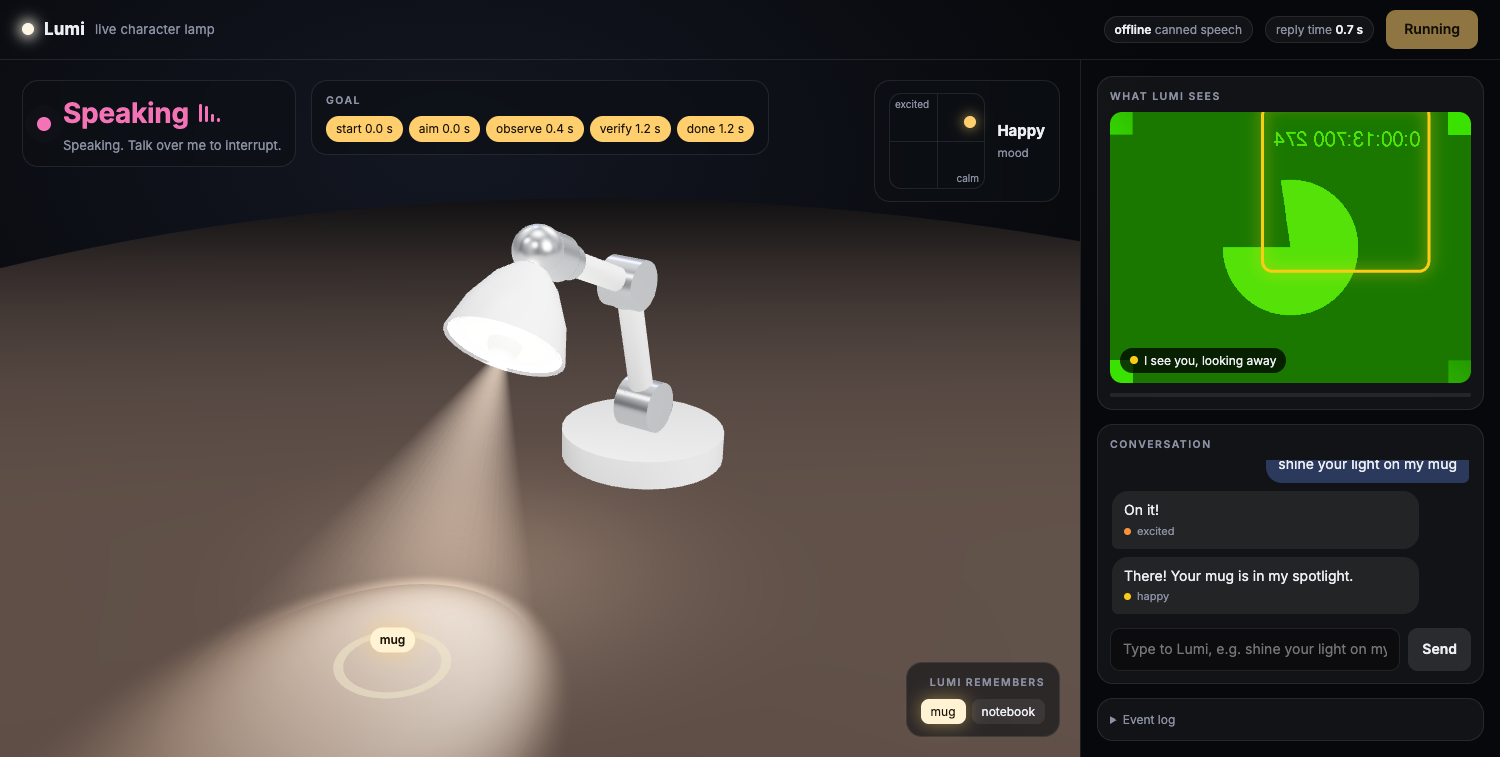
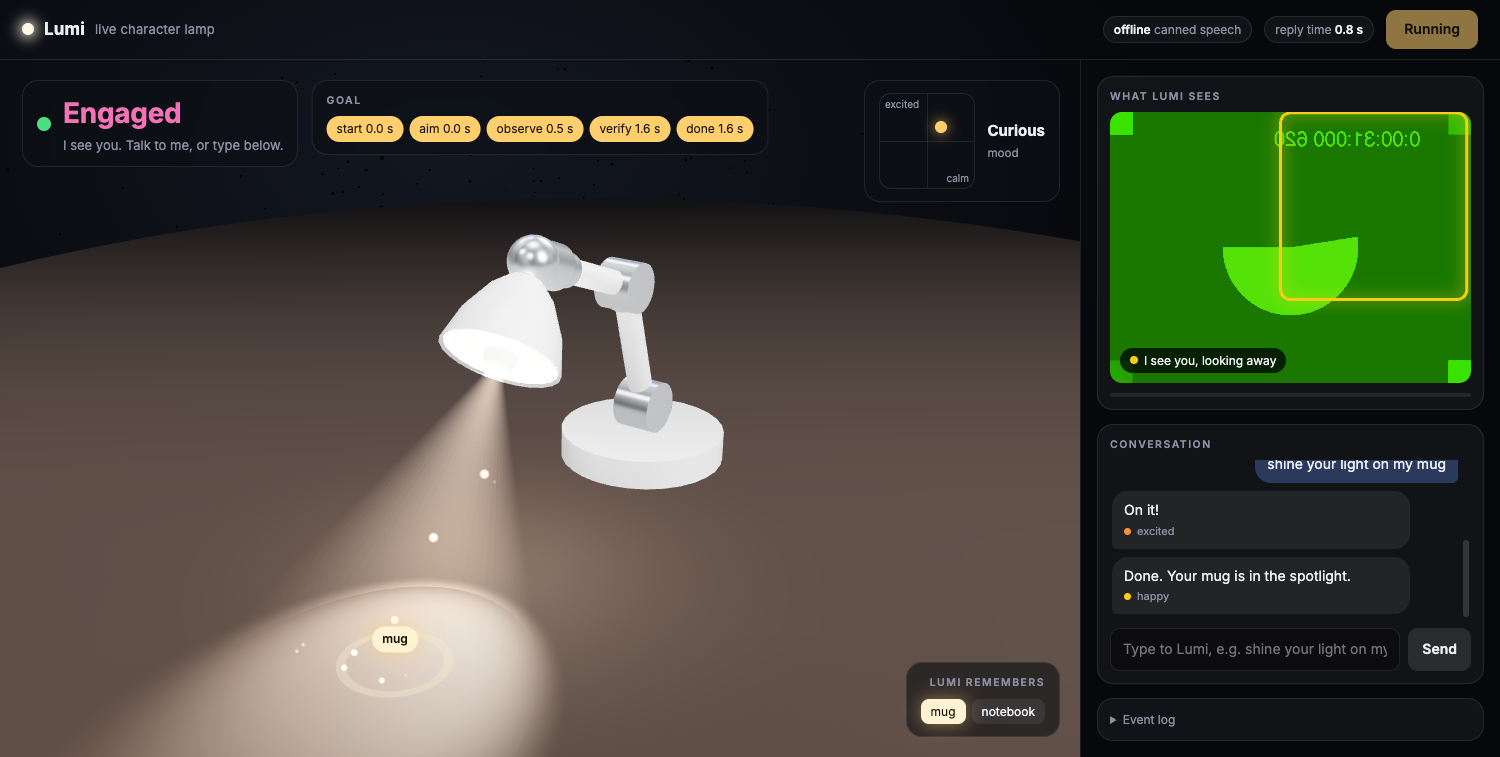
Dress rehearsal fixes and polish: trimmed TTS silence, beam dust, voice-lit light
- Trim the ~0.4 s of silence Gemini TTS puts before every clip (and the
  tail), so the reply is audible on the first chunk.
- Dust motes glow inside the beam; the light pulses with the lamp's
  voice; slow idle camera drift that returns home on wake.
- Rehearsal results with real Gemini in DECISIONS and README.

diff --git a/client/index.html b/client/index.html
@@ -58,7 +58,8 @@ aside{border-left:1px solid var(--edge);display:flex;flex-direction:column;gap:1
 .meter{height:4px;border-radius:3px;background:rgba(255,255,255,.08);margin-top:10px;overflow:hidden}
 .meter i{display:block;height:100%;width:0;background:linear-gradient(90deg,#4ade80,#facc15,#f87171);transition:width 60ms}
 .chat-card{flex:1;display:flex;flex-direction:column;min-height:0}
-#chat{flex:1;overflow-y:auto;display:flex;flex-direction:column;gap:8px;padding:2px 2px 6px;scroll-behavior:smooth}
+#chat::-webkit-scrollbar{width:6px}#chat::-webkit-scrollbar-thumb{background:rgba(255,255,255,.14);border-radius:3px}
+#chat{flex:1;overflow-y:auto;scrollbar-width:thin;scrollbar-color:rgba(255,255,255,.14) transparent;display:flex;flex-direction:column;gap:8px;padding:2px 2px 6px;scroll-behavior:smooth}
 .b{max-width:86%;padding:9px 12px;border-radius:16px;background:rgba(255,255,255,.07);animation:in .25s ease-out}
 .b.user{align-self:flex-end;background:#2b3a5c;border-bottom-right-radius:6px}.b.lumi{border-bottom-left-radius:6px}
 .b small{display:flex;gap:6px;align-items:center;color:var(--dim);font-size:11px;margin-top:3px}.b small i{width:7px;height:7px;border-radius:50%}
@@ -108,7 +109,13 @@ details summary{color:var(--dim);cursor:pointer;font-size:12px}
 <script type="module">
 const FR = {AUDIO_IN: 1, VIDEO_IN: 2, AUDIO_OUT: 3};
 const $ = id => document.getElementById(id);
-let ws, micCtx, out, playHead = 0, muted = false, sources = [], doneTimer, music = null, speaking = null;
+let ws, micCtx, out, playHead = 0, muted = false, sources = [], doneTimer, music = null, speaking = null, voiceBus, voiceMeter;
+const voiceBuf = new Float32Array(512);
+function voiceLevel() {  // 0..1, how loud the lamp's own voice is right now (drives its light while it talks)
+  if (!voiceMeter) return 0;
+  voiceMeter.getFloatTimeDomainData(voiceBuf); let s = 0; for (const x of voiceBuf) s += x * x;
+  return Math.min(1, Math.sqrt(s / voiceBuf.length) * 6);
+}
 const log = s => { const d = document.createElement('div'); d.textContent = `${new Date().toLocaleTimeString()}  ${s}`; $('log').prepend(d); };
 const pack = (k, buf) => { const u = new Uint8Array(buf.byteLength + 1); u[0] = k; u.set(new Uint8Array(buf), 1); return u.buffer; };
 
@@ -156,6 +163,8 @@ async function start() {
   micCtx.createMediaStreamSource(stream).connect(node).connect(sink).connect(micCtx.destination);
 
   out = new AudioContext({sampleRate: 24000});
+  voiceBus = out.createGain(); voiceMeter = out.createAnalyser(); voiceMeter.fftSize = 512;
+  voiceBus.connect(voiceMeter); voiceBus.connect(out.destination);
   const cv = document.createElement('canvas'); cv.width = 640; cv.height = 480; const g = cv.getContext('2d');
   setInterval(() => {  // ~5 fps; the server drops frames while busy
     if (ws.readyState !== 1) return;
@@ -182,7 +191,7 @@ function playPCM(buf) {
   const i16 = new Int16Array(buf), f = new Float32Array(i16.length);
   for (let k = 0; k < i16.length; k++) f[k] = i16[k] / 32768;
   const ab = out.createBuffer(1, f.length, 24000); ab.copyToChannel(f, 0);
-  const s = out.createBufferSource(); s.buffer = ab; s.connect(out.destination);
+  const s = out.createBufferSource(); s.buffer = ab; s.connect(voiceBus);
   playHead = Math.max(playHead, out.currentTime + 0.05); s.start(playHead); playHead += ab.duration;
   sources.push(s); s.onended = () => { sources = sources.filter(x => x !== s); };
 }
@@ -333,6 +342,8 @@ let lampUrl = null, loadLamp = () => {};
   const controls = new OrbitControls(camera, canvas);
   controls.target.set(-0.42, 0.26, 0.1); controls.enableDamping = true; controls.maxPolarAngle = 1.48;
   controls.minDistance = 0.6; controls.maxDistance = 3.2; controls.enablePan = false;
+  controls.autoRotateSpeed = 0.35; let userTookView = 0; const home = camera.position.clone();
+  controls.addEventListener('start', () => { userTookView = performance.now(); controls.autoRotate = false; });
 
   scene.add(new THREE.HemisphereLight(0x6f7fa8, 0x1a120c, 0.25));
   const rim = new THREE.DirectionalLight(0x9fb4ff, 0.35); rim.position.set(1.2, 1.6, -1.4); scene.add(rim);
@@ -394,6 +405,34 @@ let lampUrl = null, loadLamp = () => {};
   };
   loadLamp('/robot/dummy_lamp_5dof.urdf');
 
+  const DUST = 320, dustPos = new Float32Array(DUST * 3), dustVel = new Float32Array(DUST * 3), dustGlow = new Float32Array(DUST);
+  for (let i = 0; i < DUST; i++) {
+    dustPos.set([-1.1 + Math.random() * 1.3, Math.random() * 0.85, -0.55 + Math.random() * 1.1], i * 3);
+    dustVel.set([(Math.random() - .5) * 2e-4, (Math.random() - .5) * 1.5e-4, (Math.random() - .5) * 2e-4], i * 3);
+  }
+  const dustGeo = new THREE.BufferGeometry();
+  dustGeo.setAttribute('position', new THREE.BufferAttribute(dustPos, 3)); dustGeo.setAttribute('glow', new THREE.BufferAttribute(dustGlow, 1));
+  const dustMat = new THREE.ShaderMaterial({transparent: true, depthWrite: false, blending: THREE.AdditiveBlending,
+    uniforms: {color: {value: new THREE.Color()}, scale: {value: 1}},
+    vertexShader: `attribute float glow; varying float vG; uniform float scale;
+      void main(){ vG = glow; vec4 mv = modelViewMatrix * vec4(position, 1.); gl_PointSize = scale * (2. + 16. * glow) / -mv.z; gl_Position = projectionMatrix * mv; }`,
+    fragmentShader: `uniform vec3 color; varying float vG;
+      void main(){ float d = length(gl_PointCoord - .5); if (d > .5) discard; gl_FragColor = vec4(color * vG * 1.8 * (1. - 2. * d), 1.); }`});
+  const dust = new THREE.Points(dustGeo, dustMat); dust.renderOrder = 3; scene.add(dust);
+  const dv = new THREE.Vector3(), TAN = Math.tan(0.42);
+  function updateDust(apex, axis, strength) {
+    for (let i = 0; i < DUST; i++) {
+      const j = i * 3;
+      for (let a = 0; a < 3; a++) dustPos[j + a] += dustVel[j + a];
+      if (dustPos[j + 1] < 0.01 || dustPos[j + 1] > 0.9) dustVel[j + 1] *= -1;
+      if (Math.abs(dustPos[j] + 0.45) > 0.7) dustVel[j] *= -1;
+      if (Math.abs(dustPos[j + 2]) > 0.6) dustVel[j + 2] *= -1;
+      dv.set(dustPos[j] - apex.x, dustPos[j + 1] - apex.y, dustPos[j + 2] - apex.z);
+      const t = dv.dot(axis), r = dv.addScaledVector(axis, -t).length(), R = t * TAN;
+      dustGlow[i] = t > 0.02 && t < BEAM_H && r < R ? strength * (1 - r / R) * (1 - t / BEAM_H) : 0;
+    }
+    dustGeo.attributes.position.needsUpdate = dustGeo.attributes.glow.needsUpdate = true;
+  }
   const shown = {}, col = new THREE.Color(1, .8, .6), tmpCol = new THREE.Color(), p = new THREE.Vector3(), q = new THREE.Quaternion(),
         dir = new THREE.Vector3(), down = new THREE.Vector3(0, -1, 0), tag = $('tag3d');
   let k = 0.1;
@@ -412,11 +451,14 @@ let lampUrl = null, loadLamp = () => {};
       emitter.getWorldPosition(p); emitter.getWorldQuaternion(q); dir.set(1, 0, 0).applyQuaternion(q).normalize();
       col.lerp(tmpCol.setRGB(...lightTarget.rgb), .15); k += (lightTarget.k - k) * .15;
       spot.position.copy(p); spot.target.position.copy(p).addScaledVector(dir, 1); spot.target.updateMatrixWorld();
-      spot.color.copy(col); spot.intensity = 0.4 + 9 * k * k + 3 * k;
-      halo.position.copy(p).addScaledVector(dir, 0.05); halo.color.copy(col); halo.intensity = 0.05 + 0.5 * k;
+      const vk = voiceLevel(), kk = Math.min(1.2, k + 0.35 * vk);  // the light breathes with the lamp's voice
+      spot.color.copy(col); spot.intensity = 0.4 + 9 * kk * kk + 3 * kk;
+      halo.position.copy(p).addScaledVector(dir, 0.05); halo.color.copy(col); halo.intensity = 0.05 + 0.5 * kk + 0.8 * vk;
       beam.position.copy(p); beam.quaternion.setFromUnitVectors(down, dir);
-      beamMat.uniforms.color.value.copy(col); beamMat.uniforms.strength.value = 0.04 + 0.34 * k;
-      for (const m of glowMats) m.emissive.copy(col).multiplyScalar(0.25 + 2.2 * k);
+      beamMat.uniforms.color.value.copy(col); beamMat.uniforms.strength.value = 0.04 + 0.34 * kk;
+      for (const m of glowMats) m.emissive.copy(col).multiplyScalar(0.25 + 2.2 * kk + 1.5 * vk);
+      dustMat.uniforms.color.value.copy(col); dustMat.uniforms.scale.value = renderer.getPixelRatio() * 2.2;
+      updateDust(p, dir, 0.25 + 0.9 * kk);
       const reach = dir.y < -0.05 ? -p.y / dir.y : Infinity;
       if (focus && reach < 2) {
         ring.position.set(p.x + dir.x * reach, 0.002, p.z + dir.z * reach); ring.material.opacity = 0.65 + 0.3 * Math.sin(performance.now() / 180);
@@ -425,6 +467,10 @@ let lampUrl = null, loadLamp = () => {};
         tag.style.left = (s.x + 1) / 2 * stage.clientWidth + 'px'; tag.style.top = (1 - s.y) / 2 * stage.clientHeight + 'px';
       } else { ring.material.opacity = 0; tag.style.display = 'none'; }
     }
+    const calm = ['asleep', 'idle'].includes($('st').textContent);
+    const free = performance.now() - userTookView > 20000;  // the user has not touched the view for 20 s
+    controls.autoRotate = calm && free;  // a slow drift while nothing happens
+    if (!calm && free) camera.position.lerp(home, 0.04);  // and back to the front view when Lumi wakes up
     controls.update(); renderer.render(scene, camera);
   });
 })();

diff --git a/app/session.py b/app/session.py
@@ -11,6 +11,7 @@ import random
 import re
 import time
 
+import numpy as np
 from fastapi import WebSocket
 
 from .audio.vad import VAD
@@ -33,6 +34,30 @@ TTS_CACHE = "data/tts_cache"
 # Seconds a sound effect (plus room echo) keeps the mic from opening a turn: the lamp must not answer its own chirp.
 SFX_GUARD_S = {"notice": 0.45, "greet": 0.55, "listen": 0.35, "sleep": 0.9, "error": 0.55, "spot": 0.5}
 FILLERS = {"um", "uh", "uhm", "hmm", "hm", "mm", "mhm", "ah", "oh", "er", "erm"}
+
+
+SILENCE_RMS = 400  # PCM16 amplitude below which a TTS chunk counts as silence
+
+
+async def trim_silence(chunks):
+    """Drop a TTS stream's leading silence (Gemini starts every clip with about 0.4 s of it, measured) and its
+    trailing silence, keeping the pauses inside the line. Audible speech starts that much sooner."""
+    started, held = False, []
+    async for c in chunks:
+        loud = len(c) >= 2 and float(np.sqrt(np.mean(np.frombuffer(c, "<i2").astype(np.float32) ** 2))) > SILENCE_RMS
+        if not started:
+            if not loud:
+                continue
+            started = True
+        if loud:
+            for h in held:
+                yield h
+            held = []
+            yield c
+        else:
+            held.append(c)
+    if held:
+        yield held[0][:(len(held[0]) // 4) & ~1]  # keep a short natural tail (a quarter chunk, even length)
 
 
 def real_words(text: str) -> bool:
@@ -378,7 +403,7 @@ class Session:
                     pcm = open(path, "rb").read()
                     self._tts_cache[text] = [pcm[i:i + 4800] for i in range(0, len(pcm), 4800)]
                     continue
-                self._tts_cache[text] = [c async for c in self.p.tts.stream(text)]
+                self._tts_cache[text] = [c async for c in trim_silence(self.p.tts.stream(text))]
                 if path:
                     os.makedirs(os.path.dirname(path), exist_ok=True)
                     with open(path, "wb") as f:
@@ -402,7 +427,7 @@ class Session:
         elif time.monotonic() < self._tts_down_until:
             raise RuntimeError("TTS recently failed; skipping it for a while")
         else:
-            async for chunk in self.p.tts.stream(text):
+            async for chunk in trim_silence(self.p.tts.stream(text)):
                 yield chunk
 
     async def _speak(self, text: str, emotion: str, t0: float | None = None, marks: dict | None = None) -> None:

diff --git a/tests/test_session_smoke.py b/tests/test_session_smoke.py
@@ -545,3 +545,25 @@ def test_session_says_hello_and_serves_the_robot_for_the_3d_view(client):
     urdf = client.get(hello["urdf"])
     assert urdf.status_code == 200 and "lamp_head_link" in urdf.text
     assert client.get("/robot/assets/lamp_shade.stl").status_code == 200
+
+
+def test_tts_silence_is_trimmed_but_inner_pauses_kept():
+    import numpy as np
+
+    from app.session import trim_silence
+
+    def chunk(amp):  # 100 ms at 24 kHz
+        return (np.sin(np.arange(2400) / 5) * amp).astype("<i2").tobytes()
+
+    stream = [chunk(0)] * 4 + [chunk(6000), chunk(0), chunk(6000)] + [chunk(0)] * 5  # 0.4 s lead, a pause, 0.5 s tail
+
+    async def gen():
+        for c in stream:
+            yield c
+
+    async def collect():
+        return [c async for c in trim_silence(gen())]
+
+    out = asyncio.run(collect())
+    assert out[0] == chunk(6000) and out[1] == chunk(0) and out[2] == chunk(6000)  # lead gone, inner pause kept
+    assert len(b"".join(out)) < len(chunk(0)) * 4  # tail cut to a short decay

diff --git a/docs/DECISIONS.md b/docs/DECISIONS.md
@@ -176,3 +176,11 @@ Append one entry per decision or measurement. Format: date, decision, why, evide
 - Voice: six Gemini male voices sampled with `language_code=en-GB` reading the same line (all accepted; transcripts exact; median pitch 105 to 136 Hz; first audio 0.40 to 0.56 s). Default Charon (deepest, most measured); samples left in `~/Downloads/lumi-voices/` so the user can pick by ear (`GEMINI_VOICE`). No actor voice cloning: a stock voice with a composed delivery. The browser fallback prefers a British male system voice (Daniel, Google UK English Male).
 - Persona: a refined British AI butler in the spirit of a movie AI assistant: calm, articulate, dry wit, crisp one or two sentences. No honorifics like "sir", since the user or reviewer may not be one. Greetings and goal outcome lines rewritten to match ("Done. Your mug is in the spotlight.", "It moved, so I followed it."). Sample replies from the live model: "Your mug was last seen to the left of the keyboard, if memory serves."; asked to spotlight itself, "Illuminating myself seems delightfully recursive, but if you insist."
 - Speed, measured with the one-call turn (3 runs each): `gemini-3.5-flash-lite` default thinking 1.32 s median (0.97 to 1.65 s), MINIMAL 0.97 s (0.93 to 0.98 s); `gemini-3.1-flash-lite` default 1.13 s, MINIMAL 1.23 s. Now 3.5-flash-lite with `GEMINI_THINKING=MINIMAL` for dialogue. End of speech to first audio: 1.50 s median, 1.75 s p90 (was 2.05 s). The VAD end-of-turn wait drops from 600 to 450 ms (15 frames), a common voice-assistant setting; the noise-condition regression test still passes. Perceived delay goes from about 2.8 s to about 1.95 s.
+
+## 2026-09-30 Dress rehearsal (real Gemini, real browser) and final polish
+
+- Real vision on a synthetic desk image fed to Chrome's fake camera (drawn mug, keyboard, notebook): Gemini reported "coffee mug, keyboard, desk, desk edge, wall, notebook, shadow". Typed "shine your light on my mug": acknowledgement "Illuminating your mug right away.", aim, spot sound, re-observe at 0.4 s, verify and done at 3.0 s, "Done. Your coffee mug is in the spotlight."; no browser console errors; reply time chip 1.8 s.
+- Real voice turns, streamed into the real server in real time with the desk as camera frames (Chrome's fake mic stays silent with file input, so the browser capture path rests on the user's live session): "Hey Lumi, what's on my desk?" heard exactly, answered "There is a coffee mug on the left, your keyboard in the center, and a notebook on the right."; "Where did I leave my mug?" answered from the scene. End of actual speech to audible reply 2.62 s and 2.45 s; server metrics first audio 1.90 s and 1.78 s after the VAD end.
+- Measured: every Gemini TTS clip starts with about 0.40 s of silence (speech 0.40 to 2.15 s in a 2.6 s clip) and ends with about 0.45 s. `trim_silence` drops leading and trailing silence on any TTS stream and keeps inner pauses, so the voice is audible on the first chunk. Test included.
+- Headless Chrome's audio clock has no device, so playback_done came 8 to 10 s after 2.7 s lines there; the user's live session showed speaking time matching speech length (3.8 to 5.5 s for one or two sentences), so no change.
+- Visual polish (rendering only): glowing dust motes that light up only inside the beam, the light pulsing with the lamp's own voice (an analyser on the voice bus), and a slow camera drift while idle that returns to the front view when Lumi wakes and never overrides a user who moved the view. A CDP driver bug (it attached to Chrome's omnibox popup target) was fixed by selecting the page by URL.

diff --git a/README.md b/README.md
@@ -136,6 +136,7 @@ Measured on the development machine (MacBook Air M3, 8 GB, macOS 26); live rows 
 | End of speech to first audio, Gemini free tier (median, p90) | **1.50 s, 1.75 s** one-call turn (hears and answers 0.96 s with MINIMAL thinking, first TTS audio 0.54 s); was 2.05 s with default thinking, 6.8 s before streaming and one-call | `make cloudcheck`, 3 runs, synthetic utterance; plus the 0.45 s end-of-speech wait for spoken turns |
 | Scene scan, Gemini | 1.47 s median | same run |
 | Reply time (live) | first audio 2.20 s median, 2.45 s p90, 2.81 s max after the end of speech, 7 turns (Gemini free tier, office Wi-Fi, before the MINIMAL-thinking and 0.45 s end-of-speech changes) | session trace |
+| Voice turn end to end (real server, real Gemini, speech streamed in real time) | from the actual end of speech to audible reply: 2.45 s and 2.62 s (2 turns: about 0.65 s to be sure the speaker stopped, 1.2 s for Gemini to hear and answer, 0.55 s to first voice) | dress rehearsal, see DECISIONS |
 | Speaker echo (live) | 0 of 12 utterances started while the lamp was speaking (laptop speakers, no headphones) | session trace |
 | Ubuntu target CPU/memory | *not measured* (not run on Ubuntu) | `python scripts/measure_load.py 30 --sim` on the target |
 
